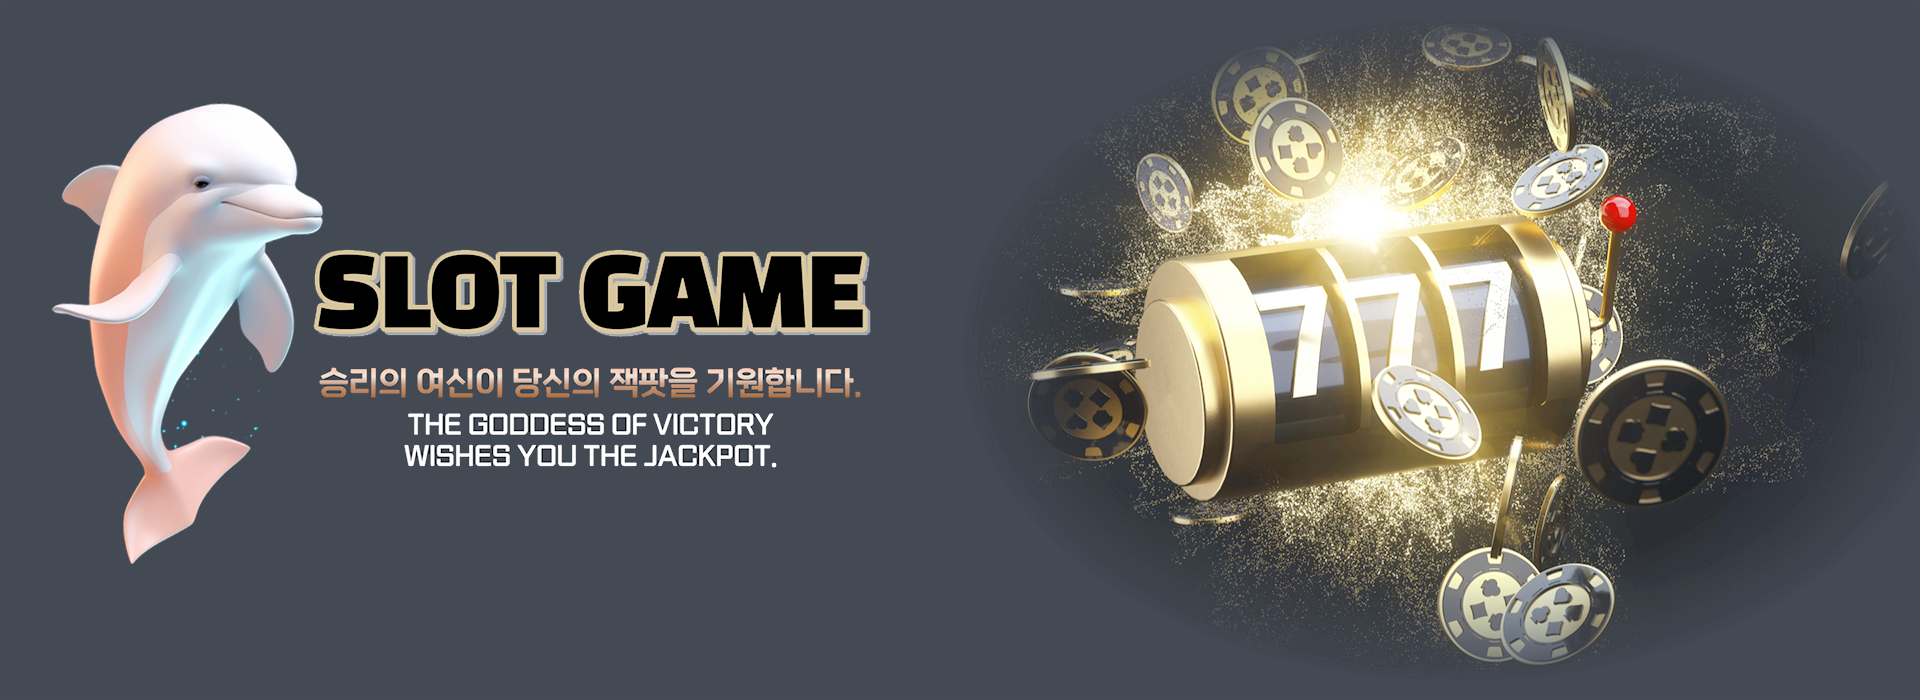
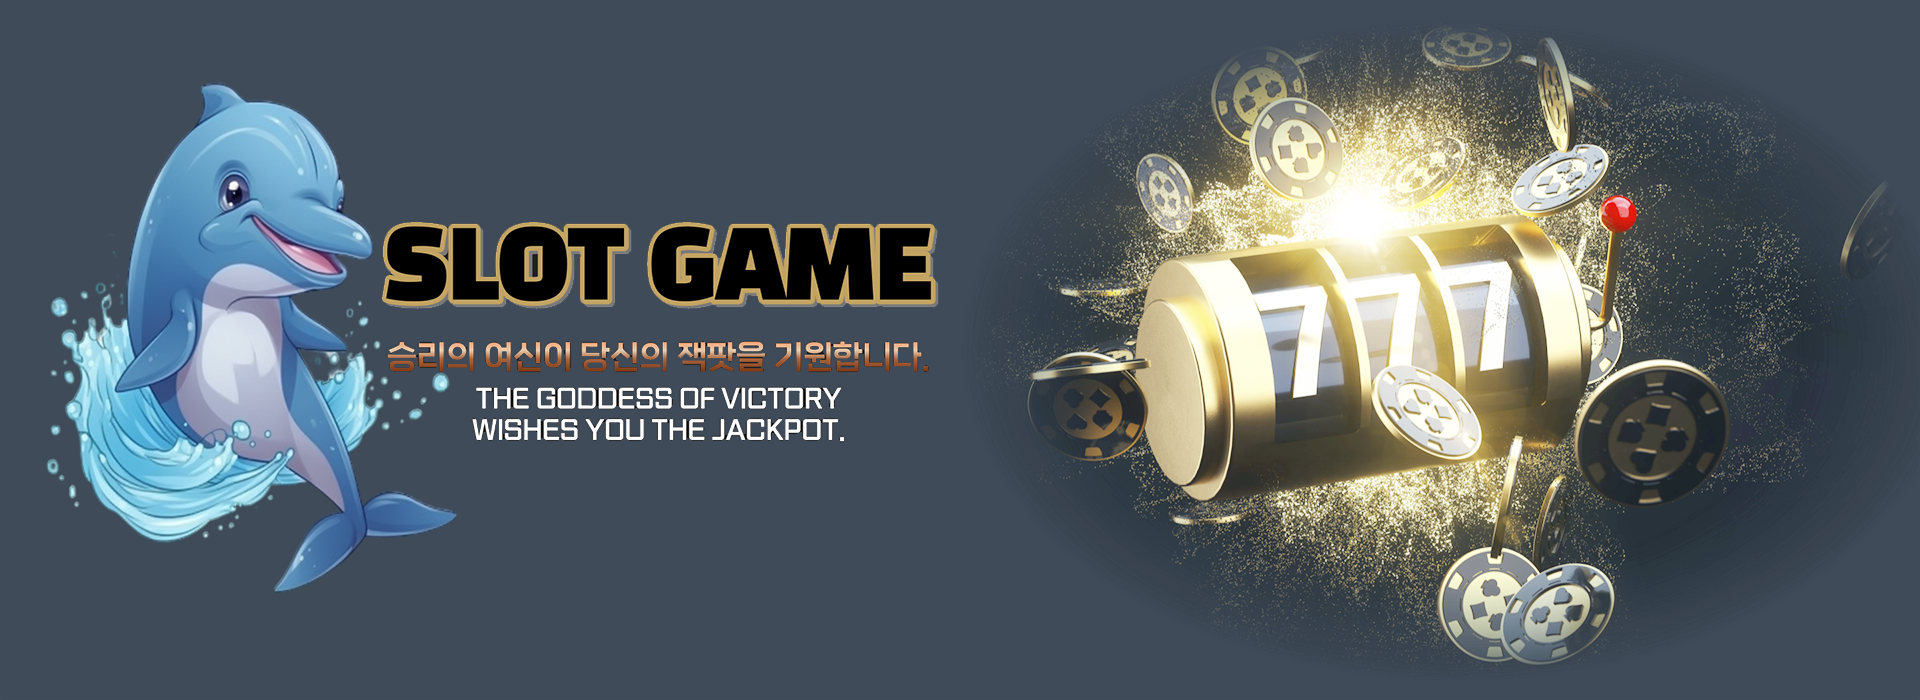
20250523-future

Changed region(s): [[0.0, 0.12, 0.5, 0.84]]

diff --git a/app/Views/home/main.php b/app/Views/home/main.php
@@ -1116,7 +1116,7 @@
                                     images: ["/images/main/banner41.png?v=2", "/images/main/banner42.png?v=2", "/images/main/banner43.png?v=2"],
                                     effect: "clip",
                                 <?php elseif($_ENV['app.name'] == APP_DOLPHIN) :?>
-                                    images: ["/images/main/banner51_<?=$_ENV['app.home']?>.png?v=1.3", "/images/main/banner52_<?=$_ENV['app.home']?>.png?v=1.3", "/images/main/banner53_<?=$_ENV['app.home']?>.png?v=1.3"],
+                                    images: ["/images/main/banner51_<?=$_ENV['app.home']?>.png?v=1.4", "/images/main/banner52_<?=$_ENV['app.home']?>.png?v=1.5", "/images/main/banner53_<?=$_ENV['app.home']?>.png?v=1.4"],
                                     effect: "clip",
                                 <?php else: ?>
                                     images: ["/images/main/banner1.png", "/images/main/banner2.png", "/images/main/banner3.png", "/images/main/banner4.png"],
